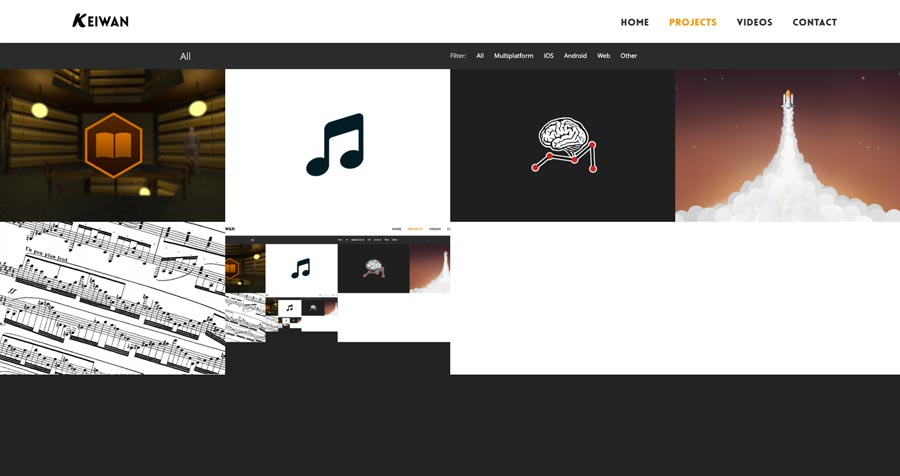
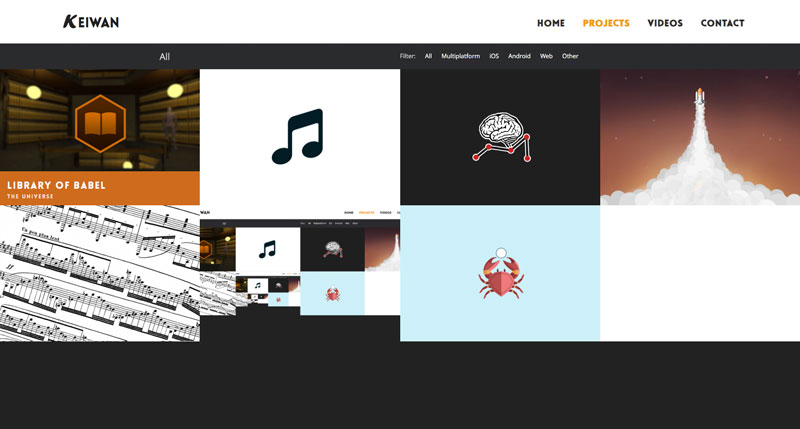
Various additions

diff --git a/resources/js/webgl-distort.js b/resources/js/webgl-distort.js
@@ -4,10 +4,10 @@ var pencilInputs = {
 	force: 1.0,
 	altitude: 90,
 	azimuth: 300,
-	movement: 0,
+	movement: 90,
 	speed: 1.0,
 	bristleStiffness: 0.0,
-	bristleLength: 0.4
+	bristleLength: 0.0
 };
 
 function basicQuadVshSource() {
@@ -112,6 +112,17 @@ function distortionShapeFshSource() {
 		varying vec2 vTextureCoord;
 		varying float vScaleFactor;
 
+		highp float fD(highp vec2 pos, highp vec2 center, float dryness) {
+
+			float x = (pos.x - center.x) * 15.0;// * dryness;
+			float y = (pos.y - center.y) * 15.0;// * dryness;
+
+			float val = pow(0.5 * (cos(x * sqrt(x * x + y * y)) * cos(y * sqrt(x * x + y * y)) + 1.0), 7.0 * dryness);
+
+			//return val * 2.0 - 1.0;
+			return val;
+		}
+
 		highp float parabola(highp vec2 x, highp vec2 center, float multiply) {
 
 			return pow(length(center - x), 2.0) * multiply;
@@ -123,18 +134,20 @@ function distortionShapeFshSource() {
 			return pow(dist, 2.0) * multiply;
 		}
 
-		float compressionFlow(highp vec2 x, highp vec2 center, highp vec2 relativeDirection, float multiply) {
+		float compressionFlow(highp vec2 x, highp vec2 center, highp vec2 relativeDirection, highp vec2 rel2, float multiply) {
 
 			highp vec2 dX = center - x;
 
 			float dist = length(dot(dX, relativeDirection) / length(relativeDirection));
 
-			float angle = asin(abs(dot(dX, relativeDirection)) / (length(dX) * length(relativeDirection)));
+			float dist2 = length(dot(dX, rel2) / length(rel2)) * 10.0 + 0.4;
 
-			if (abs(angle) > PI) {
-				return pow(dist, 1.0) * multiply * 10.0;
+			float angle = asin(dot(dX, relativeDirection)) / (length(dX) * length(relativeDirection));
+
+			if (angle < 0.0) {
+				return pow(dist, 1.0) * multiply * 5.0;
 			}
-			return pow(dist, 1.0) * multiply;
+			return pow(dist, 1.0) * multiply * 2.0;
 		}
 
 		void markCenter(highp vec2 texturePos, highp vec3 center, highp vec3 color) {
@@ -163,9 +176,10 @@ function distortionShapeFshSource() {
 
 			highp vec2 forceDistortion = normalize(center.xy - vTextureCoord) * parabola(vTextureCoord, center, force) * forceDistWeight;
 			highp vec2 linearDistortion = linearFlow(vTextureCoord, center, right, max(0.0, speed - stiffness)) * linearFlowWeight * down;
-			highp vec2 compressDistortion = compressionFlow(vTextureCoord, center, down, max(0.0, speed - stiffness)) * compressionFlowWeight * down;
+			highp vec2 compressDistortion = compressionFlow(vTextureCoord, center, down, right, max(0.0, speed - stiffness)) * compressionFlowWeight * down;
 
 			highp vec2 offset = forceDistortion + linearDistortion + compressDistortion;
+			//highp vec2 offset = forceDistortion + compressDistortion;
 
 			float dX = offset.x;
 			float dY = offset.y;
@@ -176,7 +190,9 @@ function distortionShapeFshSource() {
 
 			highp vec4 texColor = texture2D(texture, textureCoord);
 
-			gl_FragColor = vec4(1.0, 1.0, 1.0, texColor.a);
+			float dryness = fD(textureCoord, center, bristleLength);
+
+			gl_FragColor = vec4(1.0, 1.0, 1.0, texColor.a * dryness);
 
 			highp vec2 vTextureCoordSc = (vTextureCoord - vec2(0.5, 0.5)) * vScaleFactor + vec2(0.5, 0.5);
 
@@ -235,12 +251,12 @@ function main() {
 	const buffers = createQuadBuffers(gl);
 	//const buffers = createDistortionBuffers(gl);
 	
-	//const texture = loadTexture(gl, "resources/images/webgl-textures/brush.png");
+	const texture = loadTexture(gl, "resources/images/webgl-textures/brush.png");
 	//const texture = loadTexture(gl, "resources/images/webgl-textures/round.png");
 	//const texture = loadTexture(gl, "resources/images/webgl-textures/canvas_grain.png");
 	//const texture = loadTexture(gl, "resources/images/webgl-textures/grid.png");
 	//const texture = loadTexture(gl, "resources/images/webgl-textures/fine-grid.png");
-	const texture = loadTexture(gl, "resources/images/webgl-textures/rays.png");
+	//const texture = loadTexture(gl, "resources/images/webgl-textures/rays.png");
 
 	function render() {
 		drawScene(gl, programInfo, buffers, texture);

diff --git a/resources/js/scheduler.js b/resources/js/scheduler.js
@@ -31,30 +31,29 @@ var Scheduler = (function(){
 		  }
 
 		CreateEventCommand
-		  = day:Day _ start:Time _? "-" _? end:Time _ title:Title important:Important? {
+		  = day:Day _ time:TimeRange _ title:Title important:Important? {
 
 		  	  return {
 		  	  	commandID: 2,
 			  	day: day,
-			  	startTime: start,
-			  	endTime: end,
+			  	startTime: time.start,
+			  	endTime: time.end,
 			  	title:title,
 			  	important: important ? true : false
 			  };
 		  }
 
-		  / start:Time _? "-" _? end:Time _ title:Title important:Important? {
+		  / time:TimeRange _ title:Title important:Important? {
 
 		  	  return {
 		  	  	commandID: 2,
 			  	day: -1,
-			  	startTime: start,
-			  	endTime: end,
+			  	startTime: time.start,
+			  	endTime: time.end,
 			  	title:title,
 			  	important: important ? true : false
 			  };
 		  }
-
 
 		DeleteEventCommand
 		  = ("Clear"i / "Delete"i?) _ day:(Day _)? startTime:Time {
@@ -88,11 +87,46 @@ var Scheduler = (function(){
 		Title
 		  = ([A-Za-zÄÖÜäöüß0-9 ]+) { return text(); }
 
-		Time 
-		  = hour:Hour [,.:]? minute:Minute? {
+		TimeRange 
+		  = start:Time _? ("-" / "to"i) _? end:Time {
+
+		  	let startText = text().toLowerCase().split(/-|to/)[0];
+		  	let endText = text().toLowerCase().split(/-|to/)[1];
+
+		  	let startIsAM = start.hour < 12 && startText.includes("am");
+		  	let startIsPM = startText.includes("pm");
+		  	let endIsAM = end.hour < 12 && endText.includes("am");
+		  	let endIsPM = endText.includes("pm");
+
+		  	let startInMins = start.hour * 60 + start.minute;
+		  	let endInMins = end.hour * 60 + end.minute;
+
+		  	if (endIsPM && !startIsAM) {
+		  		let shiftedTime = startInMins + 12 * 60;
+		  		if (shiftedTime < Math.min(endInMins, 24 * 60)) {
+		  			start.hour = Math.floor(shiftedTime / 60);
+		  			start.minute = shiftedTime % 60;
+		  		}
+		  	}
+
+		  	if (startIsPM && end.hour < startInMins) {
+
+		  		endInMins += 12 * 60;
+		  		end.hour = Math.floor(endInMins / 60);
+		  		end.minute = endInMins % 60;
+		  	}
 
 		  	return {
-		  		hour: hour,
+		  		start: start,
+		  		end: end
+		  	};
+		  }
+
+		Time 
+		  = hour:Hour [,.:]? minute:Minute? (_? ("AM"i / "PM"i))? {
+
+		  	return {
+		  		hour: hour + (hour <= 12 && text().toLowerCase().includes("pm") ? 12 : 0),
 		  		minute: minute || 0
 		  	}
 		  }
@@ -195,6 +229,11 @@ var Scheduler = (function(){
 				dayContainer.classList.remove("current");
 			}
 		}
+	}
+
+	function getCurrentDay() {
+		let currentDay = new Date().getDay();
+		return currentDay == 0 ? 7 : currentDay;
 	}
 
 	function createEvent(container, title, day, start, end, important) {
@@ -523,6 +562,11 @@ var Scheduler = (function(){
 					parsed = clampInputTimes(parsed);
 
 					chooseCommand(parsed);
+
+					// Replace Today with the actual day
+					if (input.toLowerCase().includes("today")) {
+						input = input.replace(/today/ig, days[getCurrentDay()]);
+					}
 
 					context.previousCommands.push(input);
 					

diff --git a/scheduler.html b/scheduler.html
@@ -49,6 +49,16 @@ days:
 		<p><span>Wed 10:30 - 12 Meeting !!</span></p>
 		<p>adds an important event called "Meeting" on Wednesday between 10:30 and 12:00 to your schedule.</p>
 
+		<span class="sep-line"></span>
+
+		<h3>Times</h3>
+		<p>There are many different ways to specify a time. You can choose to just write the hours, e.g. <span>8</span> means 8:00 o'clock.</p>
+		<p>If you want to also specify minutes you can use a colon, comma or a dot: <span>1:30 1,30 1.30</span> are all the same.</p>
+		<p>You can also write <span>2pm</span> instead of <span>14:00</span> if you like.</p>
+		<p>Specify a time range by writing the start and end time separated by either <span>-</span> or <span>to</span>. With a time range, you only need to write <span>PM</span> 
+			once and it will be interpreted for both the start and end input time if that makes sense. For example, <span>2 to 3pm</span> means 14:00 - 15:00, but 
+			<span>10 to 3pm</span> is interpreted as 10:00 - 15:00.</p>
+
 	</div>
 	
 </div>

diff --git a/resources/css/projects.css b/resources/css/projects.css
@@ -335,10 +335,19 @@ a:focus {
 
 #personal-website-project .image-container {
 	background-image: url('../images/this-website_small.jpg');
+	/*background-image: url('../images/this-website.png');*/
 }
 
 #personal-website-project .description-container {
 	background-color: #F39C12;
+}
+
+#sunnygolf-project .image-container {
+	background-color: #CDF0F9;
+}
+
+#sunnygolf-project .description-container {
+	background-color: #B94E4F;
 }
 
 /**#lob-project img {
